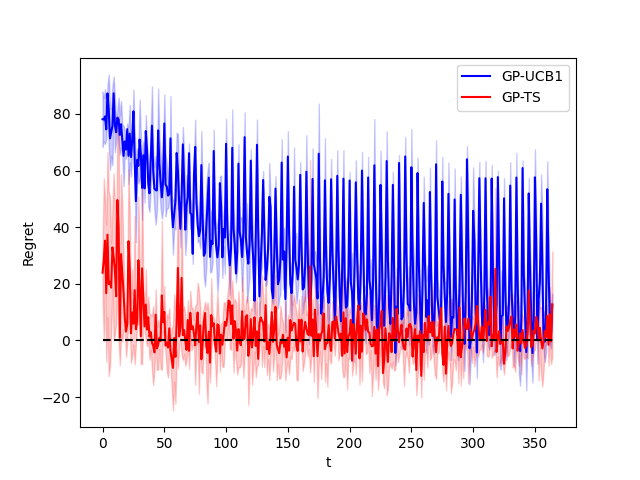
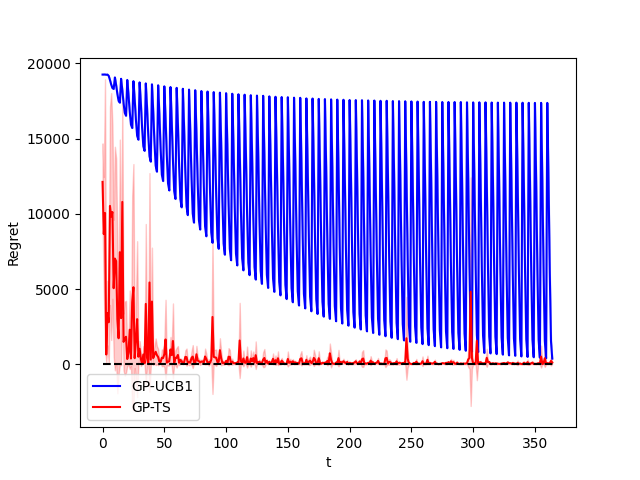
Steo 1-2-3 fixes

diff --git a/step_1.py b/step_1.py
@@ -11,8 +11,18 @@ from Learners.UCB1_Learner import UCB1_Learner
 # %% Create the three classes of users
 n_arm = 5
 Collector = UserC1()
+
+#selected_bid = np.argmax(Collector.click_vs_bid())
+selected_bid = 0.5
+#n_clicks = np.max(Collector.click_vs_bid())
+#cumulative_cost=Collector.cumulative_cost_vs_bid(selected_bid)
+n_clicks = Collector.click_vs_bid(selected_bid)
+cumulative_cost=Collector.cumulative_cost_vs_bid(selected_bid)
+production_cost = 75
+
 avg_n_users = 1     # for future optimization
-opt = max(Collector.prices * Collector.probabilities) * avg_n_users
+#opt = max(Collector.prices * Collector.probabilities) * avg_n_users
+opt = max((Collector.prices-production_cost)*Collector.probabilities*n_clicks - cumulative_cost)
 
 T = 365
 
@@ -21,13 +31,12 @@ ts_rewards_per_experiment = []
 gr_rewards_per_experiment = []
 ucb1_rewards_per_experiment = []
 
-
 # %% Run the experiments
 for e in range(0, n_experiments):
     env = Environment(n_arms=n_arm, user=Collector)
-    ts_learner = TS_Learner(n_arms=n_arm)
-    gr_learner = Greedy_Learner(n_arms=n_arm)
-    ucb1_learner = UCB1_Learner(n_arms=n_arm, M = Collector._max_price)
+    ts_learner = TS_Learner(n_arms=n_arm, production_cost=production_cost, n_clicks=n_clicks, cumulative_cost=cumulative_cost)
+    gr_learner = Greedy_Learner(n_arms=n_arm, production_cost=production_cost, n_clicks=n_clicks, cumulative_cost=cumulative_cost)
+    ucb1_learner = UCB1_Learner(n_arms=n_arm, production_cost=production_cost, n_clicks=n_clicks, cumulative_cost=cumulative_cost, M = Collector._max_price)
     for t in range(0, T):
         # Thompson Sampling Learner
         pulled_arm = ts_learner.pull_arm(Collector.prices)

diff --git a/Learners/UCB1_Learner.py b/Learners/UCB1_Learner.py
@@ -7,8 +7,12 @@ from Learners.Learner import Learner
 
 class UCB1_Learner(Learner):
 
-    def __init__(self, n_arms, M):
+    def __init__(self, n_arms, production_cost, n_clicks, cumulative_cost, M):
         super().__init__(n_arms)
+        self.production_cost = production_cost
+        self.n_clicks = n_clicks
+        self.cumulative_cost = cumulative_cost
+
         self.expected_rewards = np.zeros(n_arms)
         self.n_pulls = np.zeros(n_arms)
         self.upper_confidence_bounds = np.array([np.inf]*n_arms)
@@ -27,5 +31,6 @@ class UCB1_Learner(Learner):
     def update(self, pulled_arm, reward, price):
         self.t += 1
         self.n_pulls[pulled_arm] += 1
-        self.update_observations(pulled_arm, reward*price)      # TODO update with reward*price
-        self.expected_rewards[pulled_arm] = (self.expected_rewards[pulled_arm] * (self.n_pulls[pulled_arm] - 1) + reward * price) / self.n_pulls[pulled_arm]  # TODO check t_elemnt
+        gain = (price-self.production_cost)*reward*self.n_clicks - self.cumulative_cost
+        self.update_observations(pulled_arm, gain)      # TODO update with reward*price
+        self.expected_rewards[pulled_arm] = (self.expected_rewards[pulled_arm] * (self.n_pulls[pulled_arm] - 1) + gain) / self.n_pulls[pulled_arm]  # TODO check t_elemnt

diff --git a/Environments/Pricing_Bidding_environment.py b/Environments/Pricing_Bidding_environment.py
@@ -3,7 +3,7 @@ import numpy as np
 class PricingBiddingEnvironment():
     '''Pricing and Bidding Environment Class'''
 
-    def __init__(self, actions, bids, sigma, user):  
+    def __init__(self, actions, bids, sigma, user, production_cost):  
         """
         Initialize the Bidding Environment Class with the actions, means and sigmas.
         """
@@ -13,8 +13,9 @@ class PricingBiddingEnvironment():
         step=int(actions.shape[0]/len(bids))
         self.means=[]
         for i in range(1,len(bids)+1):
-            self.means[step*(i-1):step*i] = user.demand_curve(user.prices) * np.repeat(user.click_vs_bid(bids[i-1]),step)
-        self.sigmas = np.ones(len(actions)) * sigma 
+            self.means[step*(i-1):step*i] = (user.prices - production_cost) * user.demand_curve(user.prices) * np.repeat(user.click_vs_bid(bids[i-1]),step) - np.repeat(user.cumulative_cost_vs_bid(bids[i-1]),step)
+        self.sigmas = np.ones(len(actions)) * sigma
+        production_cost = production_cost
 
     def round(self, pulled_arm):
         '''Simulate the current round of pricing and bidding with the given pulled arm. Returns the realization of a random normal with set mean and std.'''

diff --git a/Learners/Greedy_Learner.py b/Learners/Greedy_Learner.py
@@ -1,8 +1,12 @@
 from Learners.Learner import *
 
 class Greedy_Learner (Learner):
-    def __init__(self, n_arms):
+    def __init__(self, n_arms, production_cost, n_clicks, cumulative_cost):
         super().__init__(n_arms)
+        self.production_cost = production_cost
+        self.n_clicks = n_clicks
+        self.cumulative_cost = cumulative_cost
+    
         self.expected_rewards = np.zeros(n_arms)
 
     def pull_arm(self):
@@ -17,6 +21,7 @@ class Greedy_Learner (Learner):
     
     def update (self, pulled_arm, reward, price):
         self.t += 1
-        self.update_observations(pulled_arm, reward*price)   # update with reward*price
-        self.expected_rewards[pulled_arm] = (self.expected_rewards[pulled_arm] * (self.t - 1) + reward*price) / self.t
+        gain = (price-self.production_cost)*reward*self.n_clicks - self.cumulative_cost
+        self.update_observations(pulled_arm, gain)   # update with reward*price
+        self.expected_rewards[pulled_arm] = (self.expected_rewards[pulled_arm] * (self.t - 1) + gain) / self.t
     

diff --git a/Learners/TS_Learner.py b/Learners/TS_Learner.py
@@ -3,8 +3,12 @@ from Learners.Learner import *
 
 
 class TS_Learner(Learner):
-    def __init__(self,n_arms):
+    def __init__(self,n_arms, production_cost, n_clicks, cumulative_cost):
         super().__init__(n_arms)
+        self.production_cost = production_cost
+        self.n_clicks = n_clicks
+        self.cumulative_cost = cumulative_cost
+        
         # Beta and Alpha parameters
         self.beta_param = np.ones((n_arms,2))
 
@@ -22,7 +26,8 @@ class TS_Learner(Learner):
     def update(self,pulled_arm,reward, price):
         # Increase time
         self.t += 1
-        self.update_observations(pulled_arm, reward*price) # TODO update with reward*price
+        gain = (price-self.production_cost)*reward*self.n_clicks - self.cumulative_cost
+        self.update_observations(pulled_arm, gain) # TODO update with reward*price
         # Update parameters
         self.beta_param[pulled_arm,0] = self.beta_param[pulled_arm,0] + reward
         self.beta_param[pulled_arm,1] = self.beta_param[pulled_arm,1] + 1.0 - reward

diff --git a/step_2.py b/step_2.py
@@ -22,12 +22,14 @@ n_experiments = 4
 gpts_rewards_per_experiment = []
 gpucb1_rewards_per_experiment = []
 
+Collector = UserC1()
+
+#selected_price = np.argmax(Collector.demand_curve())
 selected_price = 300
+#conversion_rate = np.max(Collector.demand_curve())
+conversion_rate = Collector.demand_curve(selected_price)
 production_cost = 75
 margin = selected_price - production_cost
-
-Collector = UserC1()
-conversion_rate = Collector.demand_curve(selected_price)
 
 # %% Run the experiments
 for e in range(0, n_experiments):

diff --git a/Environments/Bidding_environment.py b/Environments/Bidding_environment.py
@@ -9,7 +9,7 @@ class BiddingEnvironment():
         # Assignments and Initializations
         self.bids = bids
         self.means = margin*rate*user.click_vs_bid(bids) - user.cumulative_cost_vs_bid(bids)  # real function
-        self.sigmas = np.ones(len(bids)) * sigma 
+        self.sigmas = np.ones(len(bids)) * sigma
 
     def round(self, pulled_arm):
         '''Simulate the current round of bidding with the given pulled arm. Returns the realization of a random normal with set mean and std.'''

diff --git a/Environments/Users.py b/Environments/Users.py
@@ -141,7 +141,7 @@ class User(ABC):
 class UserC1(User):
     """
     User class C1
-    Collcetor User
+    Collector User
     """
 
     def __init__(self):
@@ -151,6 +151,7 @@ class UserC1(User):
         return (1 - np.exp(- 5.0 * bid))  * 100
 
     def cumulative_cost_vs_bid(self, bid):
+        # cambiare
         return 100 * (1-np.exp(-2*bid+bid**3))
 
     

diff --git a/Learners/Learner.py b/Learners/Learner.py
@@ -17,6 +17,7 @@ class Learner(ABC):
         # cumulative rewards for each arm
         self.collected_rewards = np.array([])
 
+
     """
     Method that updates the observations coming from the environment
     :pulled_arm: the played arm
